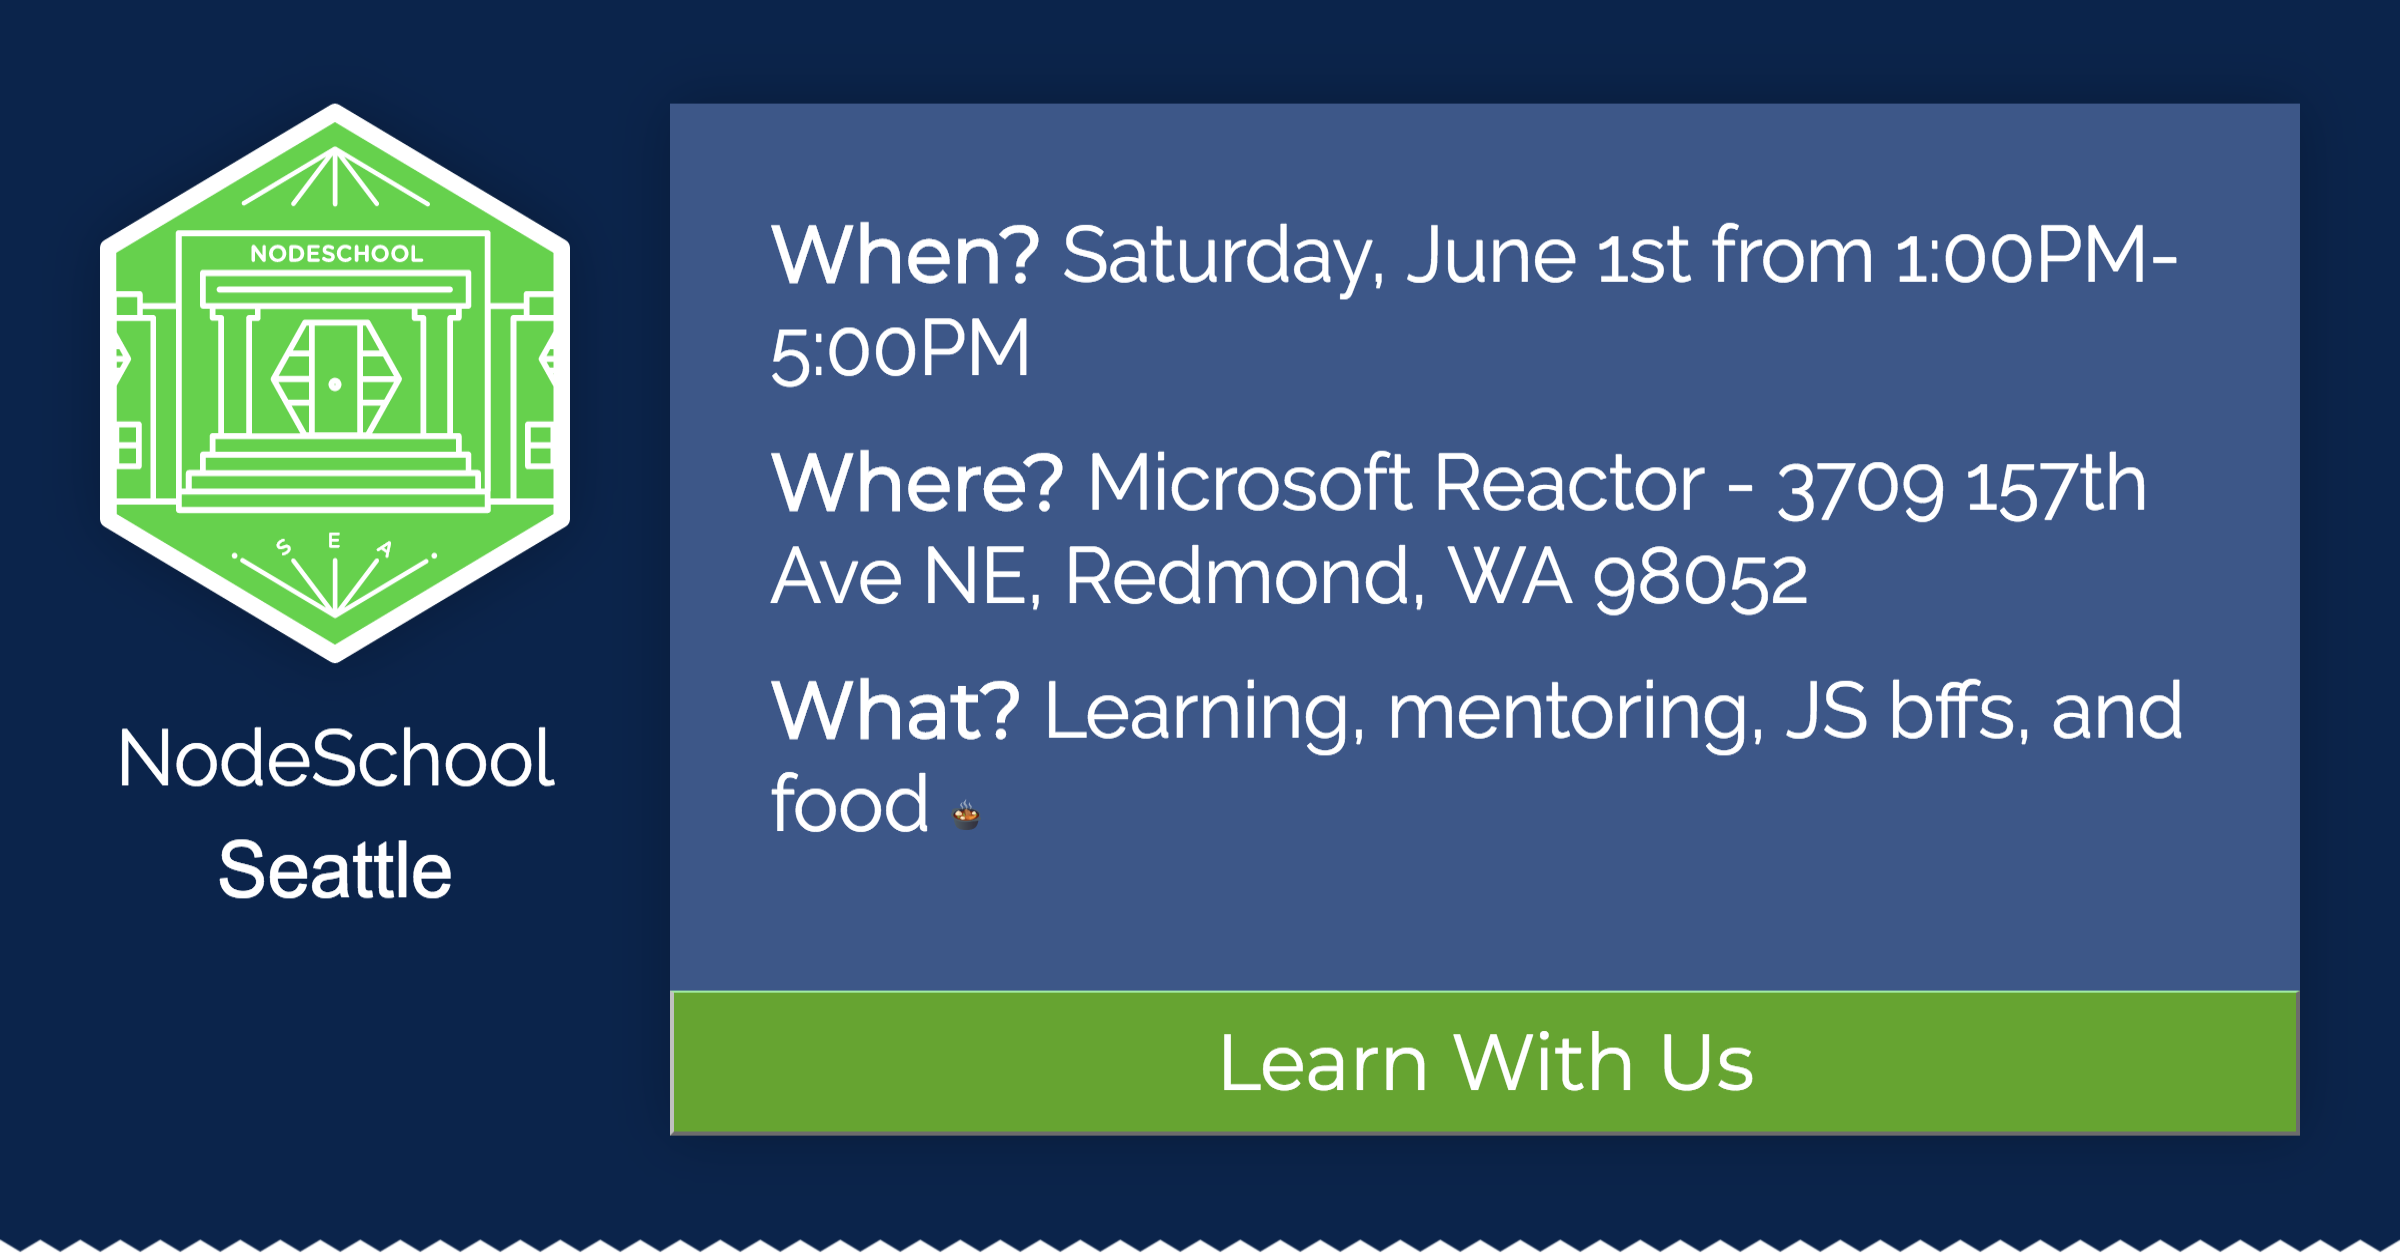
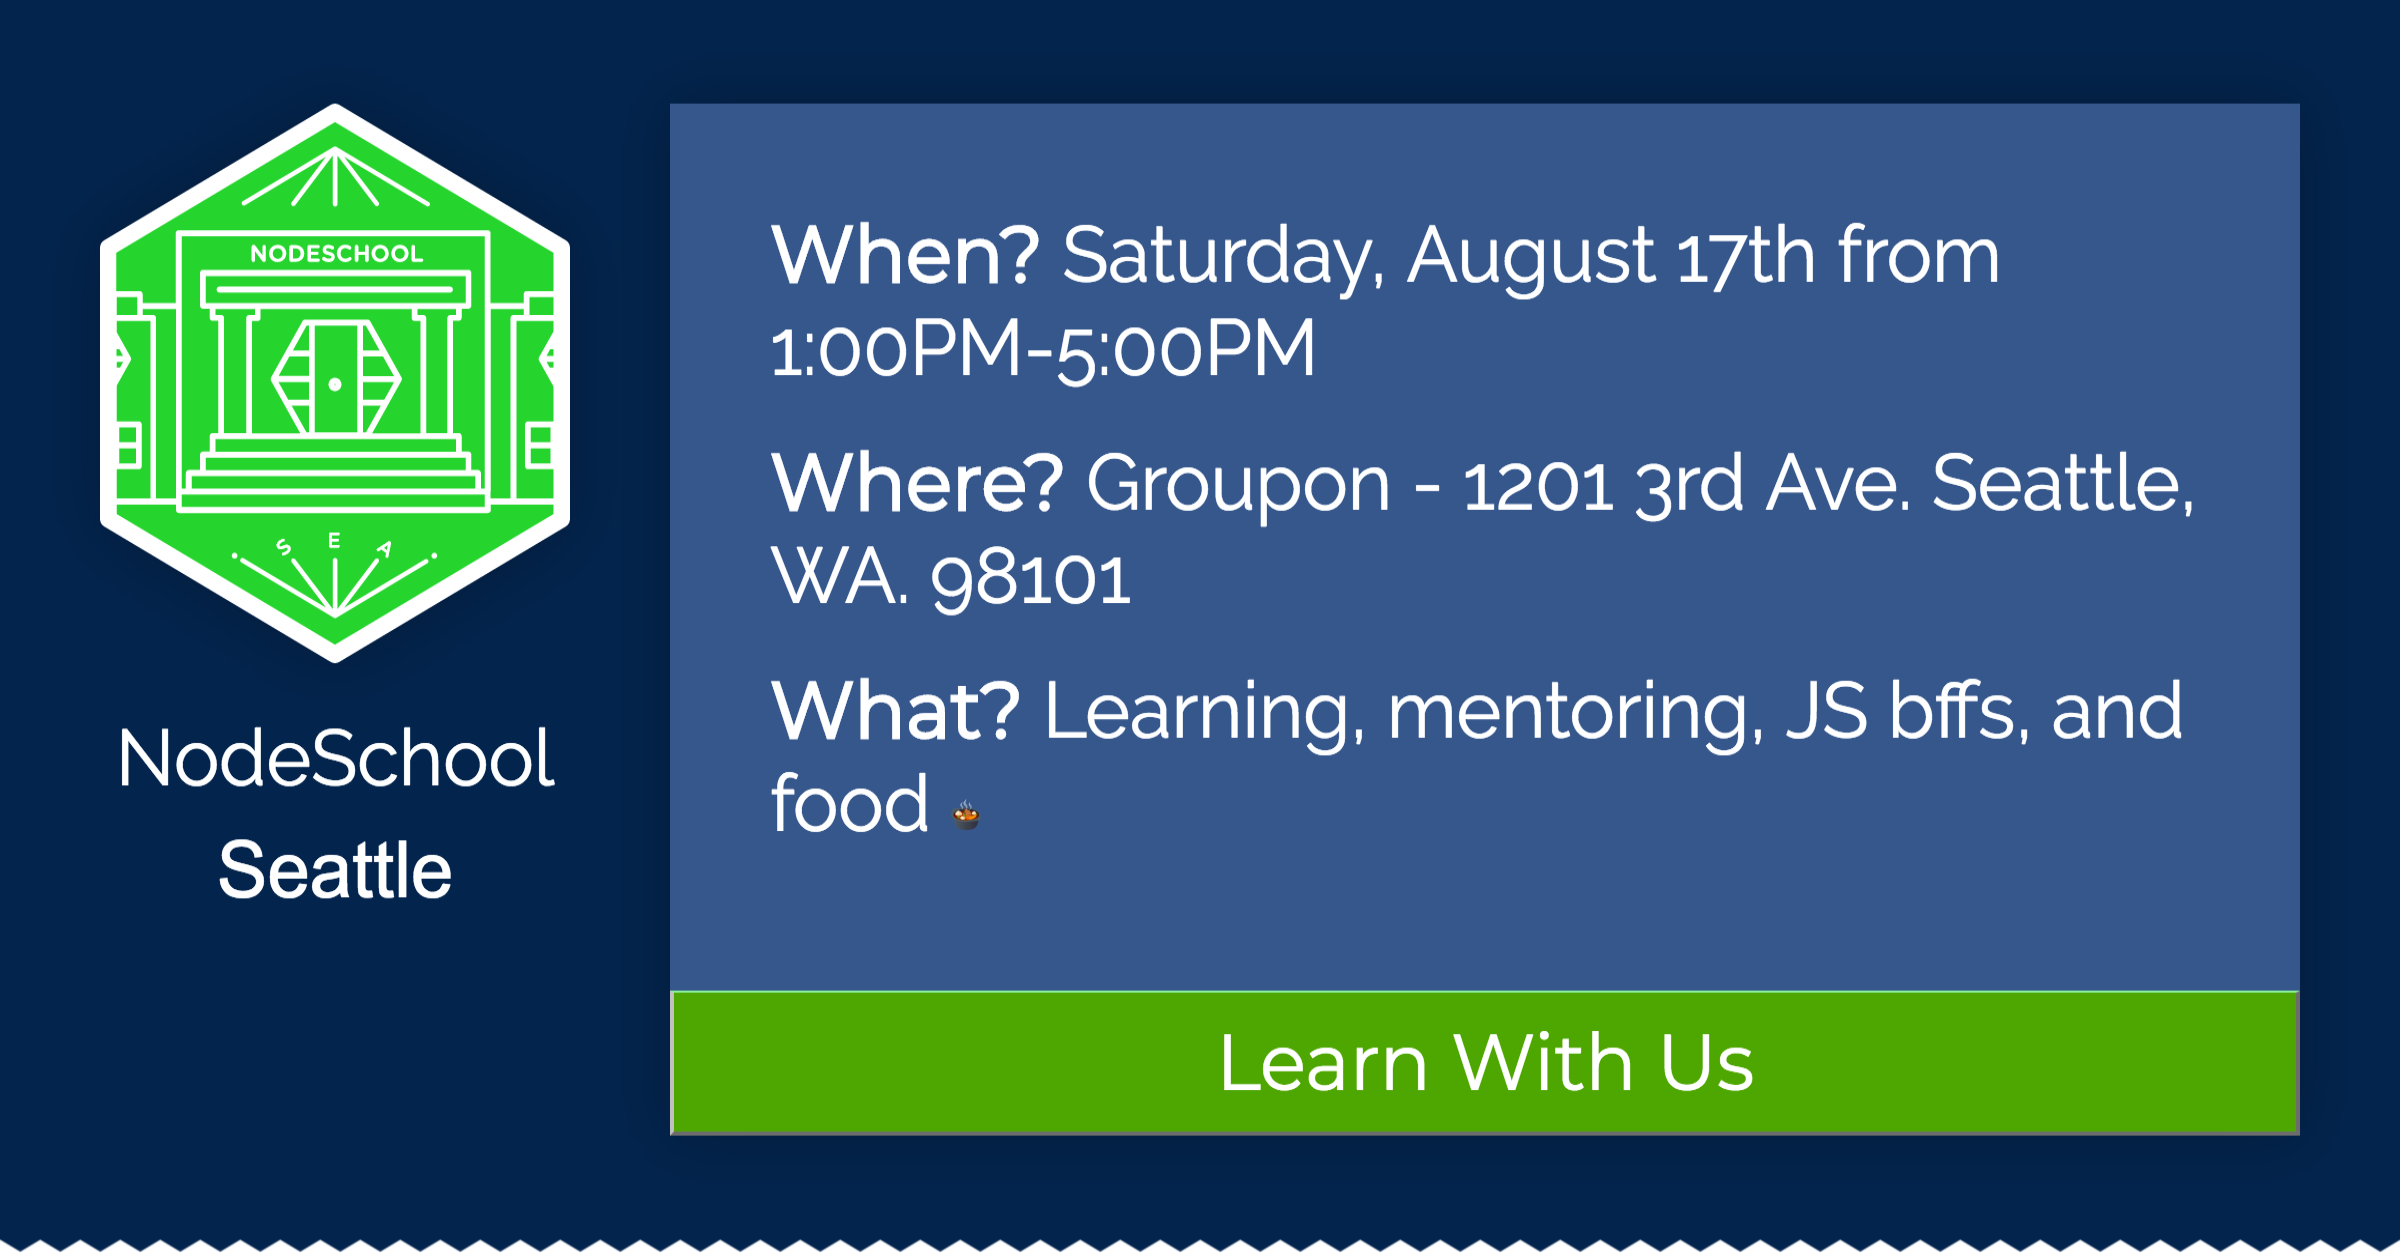
Automatic update: NodeSchool Seattle - 2019-07-19 04:06PM

diff --git a/docs/index.html b/docs/index.html
@@ -7,14 +7,14 @@
     <meta property="og:type" content="website" />
     <meta property="og:description" content="NodeSchool Seattle is a meetup dedicated to helping people learn JavaScript." />
     <meta property="og:url" content="https://nodeschool.io/seattle/" />
-    <meta property="og:image" content="https://nodeschool.io/seattle/images/social.png?t=1557285045019" />
+    <meta property="og:image" content="https://nodeschool.io/seattle/images/social.png?t=1563576721936" />
     <!--Twitter-->
     <meta name="twitter:card" content="summary">
     <meta name="twitter:site" content="@nodeschool_sea">
     <meta name="twitter:creator" content="@nodeschool_sea">
     <meta name="twitter:title" content="NodeSchool Seattle">
     <meta name="twitter:description" content="NodeSchool Seattle is a meetup dedicated to helping people learn JavaScript.">
-    <meta name="twitter:image" content="https://nodeschool.io/seattle/images/social.png?t=1557285045019">
+    <meta name="twitter:image" content="https://nodeschool.io/seattle/images/social.png?t=1563576721936">
     <title>NodeSchool Seattle</title>
     <link rel="stylesheet" href="./styles/index.css" />
     <link rel="icon" href="./images/favicon.png" type="image/png" />
@@ -61,13 +61,13 @@
 
           <div class="next-event">
             <div class="next-event__description">
-              <h2 class="next-event__heading">Our Next Event is on June 1st</h2>
+              <h2 class="next-event__heading">Our Next Event is on August 17th</h2>
               <ul class="next-event__info">
                 <li class="next-event__info__item">
-                  <strong class="strong--alt">When?</strong> Saturday, June 1st from 1:00PM-5:00PM
+                  <strong class="strong--alt">When?</strong> Saturday, August 17th from 1:00PM-5:00PM
                 </li>
                 <li class="next-event__info__item">
-                  <strong class="strong--alt">Where?</strong> Microsoft Reactor - 3709 157th Ave NE, Redmond, WA 98052 [<a href="http://maps.google.com/?q=3709%20157th%20Ave%20NE%2C%20Redmond%2C%20WA%2098052">map</a>]
+                  <strong class="strong--alt">Where?</strong> Groupon - 1201 3rd Ave. Seattle, WA. 98101 [<a href="http://maps.google.com/?q=1201%203rd%20Ave.%20Seattle%2C%20WA.%2098101">map</a>]
                 </li>
                 <li class="next-event__info__item">
                   <strong class="strong--alt">What?</strong> Learning, mentoring, JS bffs, and food <img src="./images/pot-of-food.png" class="emoji" alt="pot of food emoji">
@@ -75,9 +75,9 @@
               </ul>
             </div>
             <nav class="next-event__links">
-              <a class="next-event__links__learner next-event__links__link button" href="https:&#x2F;&#x2F;www.meetup.com&#x2F;Seattle-NodeSchool&#x2F;events&#x2F;261277733&#x2F;">
+              <a class="next-event__links__learner next-event__links__link button" href="https:&#x2F;&#x2F;www.meetup.com&#x2F;Seattle-NodeSchool&#x2F;events&#x2F;263300553&#x2F;">
                 Sign up as a Learner
-              </a><a class="next-event__links__mentor next-event__links__link button" href="https:&#x2F;&#x2F;github.com&#x2F;nodeschool&#x2F;seattle&#x2F;issues&#x2F;87">
+              </a><a class="next-event__links__mentor next-event__links__link button" href="https:&#x2F;&#x2F;github.com&#x2F;nodeschool&#x2F;seattle&#x2F;issues&#x2F;88">
                 Sign up as a Mentor
               </a>
             </nav>
@@ -91,7 +91,7 @@
           <h3 class="focused__subheading">NodeBots</h3>
           <p>Host Gaius Baltar will be leading a demonstration of how to make an LED blink with Node.</p>
           <p>Registration will be limited to twenty attendees.</p>
-          <p><a href="https:&#x2F;&#x2F;www.meetup.com&#x2F;Seattle-NodeSchool&#x2F;events&#x2F;261277733&#x2F;" class="button focused__register">Register now!</a></p>
+          <p><a href="https:&#x2F;&#x2F;www.meetup.com&#x2F;Seattle-NodeSchool&#x2F;events&#x2F;263300553&#x2F;" class="button focused__register">Register now!</a></p>
         </div>
       </section>
 
@@ -152,7 +152,7 @@
                 <ul><li>Having also completed some elective workshoppers is a great bonus.</li></ul>
                 <li>Review the <a href="https://github.com/nodeschool/organizers/wiki/Event-Mentor-Best-Practices">Mentor Best Practices</a> wiki page.</li>
                 <li>Arrive 30 minutes early (12:30p) so we can get setup and have our mentor meeting.</li>
-                <li>Sign up on <a href="https:&#x2F;&#x2F;github.com&#x2F;nodeschool&#x2F;seattle&#x2F;issues&#x2F;87">the event's GitHub issue</a>!</li>
+                <li>Sign up on <a href="https:&#x2F;&#x2F;github.com&#x2F;nodeschool&#x2F;seattle&#x2F;issues&#x2F;88">the event's GitHub issue</a>!</li>
               </ul>
             </dd>
 

diff --git a/docs/social.html b/docs/social.html
@@ -23,10 +23,10 @@
             <div class="next-event__description">
               <ul class="next-event__info">
                 <li class="next-event__info__item">
-                  <strong class="strong--alt">When?</strong> Saturday, June 1st from 1:00PM-5:00PM
+                  <strong class="strong--alt">When?</strong> Saturday, August 17th from 1:00PM-5:00PM
                 </li>
                 <li class="next-event__info__item">
-                  <strong class="strong--alt">Where?</strong> Microsoft Reactor - 3709 157th Ave NE, Redmond, WA 98052
+                  <strong class="strong--alt">Where?</strong> Groupon - 1201 3rd Ave. Seattle, WA. 98101
                 </li>
                 <li class="next-event__info__item">
                   <strong class="strong--alt">What?</strong> Learning, mentoring, JS bffs, and food <img src="./images/pot-of-food.png" class="emoji" alt="pot of food emoji">
